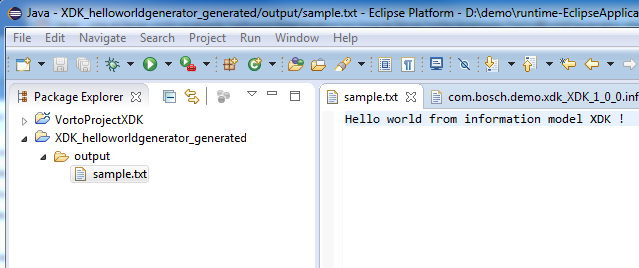
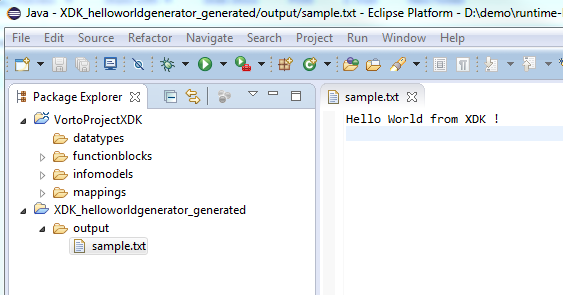
add mapping usage to code generator tutorial;

diff --git a/website/documentation/developer-api/codegenerator-implementation.md b/website/documentation/developer-api/codegenerator-implementation.md
@@ -114,3 +114,93 @@ After packaging and deploying the plug-in in the eclipse plug-ins folder, the co
 
 This example code generator is provided for you to understand code generator easier. There are already some predefined code generators included in our code base, please see the list [here](https://github.com/eclipse/vorto/blob/development/server/generators/Readme.md). 
 
+## Using Mapping in a code generator
+If the information model's properties cannot be directly used in a code generator, then a mapping file is needed to map information model's property to the other platform specific value. 
+
+Following the above tutorial, the helloworld generator could already generate "Hello World from XDK !", here "XDK" is the name of the information model. 
+Now, let's say, if user would like to use a nick name instead of information model name, and user doen't want to incorporate this platform-specific nick name into the existing information model, so we can use mapping mechanism to acheive that purpose. 
+
+**Proceed as follows**
+
+* Stop the testing enviroment, and come back to development eclipse. 
+
+![generator_mapping]({{base}}/img/documentation/vorto_generator_mapping.png)
+
+Implement the actual code under the `generate()` method for the code to be generated - for example:
+
+		package org.eclipse.vorto.example
+		
+		import org.eclipse.vorto.codegen.api.ChainedCodeGeneratorTask
+		import org.eclipse.vorto.codegen.api.GenerationResultZip
+		import org.eclipse.vorto.codegen.api.GeneratorTaskFromFileTemplate
+		import org.eclipse.vorto.codegen.api.IFileTemplate
+		import org.eclipse.vorto.codegen.api.mapping.InvocationContext;
+		import org.eclipse.vorto.codegen.api.IVortoCodeGenerator
+		import org.eclipse.vorto.core.api.model.informationmodel.InformationModel
+		
+		class HelloWorldGenerator implements IVortoCodeGenerator {
+		
+			override generate(InformationModel infomodel, InvocationContext context) {
+				var output = new GenerationResultZip(infomodel,getServiceKey());
+				var generator = new ChainedCodeGeneratorTask<InformationModel>();
+				generator.addTask(new GeneratorTaskFromFileTemplate(new SampleTemplate()));
+				generator.generate(infomodel,context,output);
+				return output
+			}
+			
+			public static class SampleTemplate implements IFileTemplate<InformationModel> {
+				override getFileName(InformationModel context) {
+					return "sample.txt"
+				}
+					
+				override getPath(InformationModel context) {
+					return "output"
+				}
+					
+				override getContent(InformationModel model, InvocationContext context) {
+					'''
+					«var mappedElement = context.getMappedElement(model,"hellofrom")»
+					«var nickname = mappedElement.getAttributeValue("nickname", "")»
+					Hello World from «nickname»
+					'''
+			    }
+			}
+			
+			override getServiceKey() {
+				return "helloworldgenerator";
+			}
+		}
+
+## Creating mapping file
+
+1. In the **Package Explorer**, select the plug-in project (`HelloWorldGenerator` in the example).
+2. From the context menu, choose **Run As > Eclipse Application**.
+  A new Eclipse instance is started, Switch to the **Vorto** perspective.
+3. In Vorto perspective, right click on recent created information model (e.g. `XDK`). 
+4. From the context menu, choose **New Mapping Model**. 
+
+  ![new mapping model]({{base}}/img/documentation/vorto_new_mapping_model.png)  
+
+  Switch to Java perspective, a new file with name `com.mycompany.mapping_XDK_Helloworld_Mapping_1_0_0.mapping` is generated under mappings folder. 
+
+  ![mapping model generated]({{base}}/img/documentation/vorto_mapping_file_generated.png)  
+5. Implement the actual code like below, save it. 
+
+		namespace com.mycompany.mapping
+		version 1.0.0
+		displayname "XDK_Helloworld_Mapping"
+		description "Mapping model for XDK_Helloworld_Mapping"
+		using com.bosch.demo.xdk.XDK;1.0.0
+		
+		infomodelmapping XDK_Helloworld_Mapping {
+			targetplatform helloworldgenerator
+			from XDK to hellofrom with {nickname: "My Secret Weapon"}
+		}
+
+## Testing the New Code Generator with mapping file
+
+1. Switch to Vorto perspective, right click on information model (e.g. `XDK`). 
+2. From the context menu, choose **Generate Code > HelloWorldGenerator**.  
+3. A new project with name `XDK_helloworldgenerator_generated` is generated.  
+4. Open the file `sample.txt`, it shows "Hello World from My Secret Weapon !" now.
+  ![generated code]({{base}}/img/documentation/vorto_generated_with_mapping.png)  
